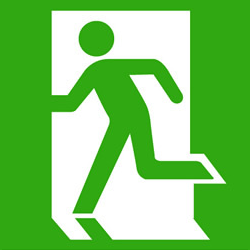
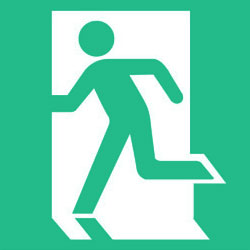
style: changing colors and images

diff --git a/js/app.js b/js/app.js
@@ -113,12 +113,15 @@ var createMarker = function (marker) {
             infoWindow.close();
         }
 		createInfoWindow(marker).open(map);
+		createAnimation(this);
+		//this.setAnimation(google.maps.Animation.BOUNCE);
 		//createAnimation(this.marker);
 	});
 }
 
 /** Trying to create animation - always an error: Uncaught TypeError: Cannot read property 'setAnimation' of undefined **/
 var createAnimation = function (marker) {
+	console.log(marker);
 	marker.setAnimation(google.maps.Animation.BOUNCE);
 }
 
@@ -186,6 +189,7 @@ var ViewModel = function () {
         itemSelected2.classList.add('active');
 
         createInfoWindow(marker).open(map);
+		createAnimation(this);
     };
 
 	/** Filtering the lists of escape rooms **/

diff --git a/index.html b/index.html
@@ -45,7 +45,7 @@
 	</div>
 	<main id="map"></main>
 
-	<script src="https://maps.googleapis.com/maps/api/js?v=3.exp&libraries=places" async defer></script>
+	<script async src="https://maps.googleapis.com/maps/api/js?v=3.exp&libraries=places"></script>
 	<script src="js/knockout-3.2.0.js"></script>
 	<script src="js/jquery.min.js"></script>
 	<script src="js/bootstrap.min.js"></script>

diff --git a/css/app.css b/css/app.css
@@ -10,7 +10,7 @@ body {
 }
 
 .title {
-	color: #30a812;
+	color: #00bb88;
 	font-size: 22px;
 	font-weight: bold;
 	margin: 0 0 10px 0;
@@ -34,7 +34,7 @@ body {
 
 .infoWindow img {
 	margin-top: 10px;
-	border-top: 5px solid #30a812;
+	border-top: 5px solid #00bb88;
 }
 
 #searchList {
